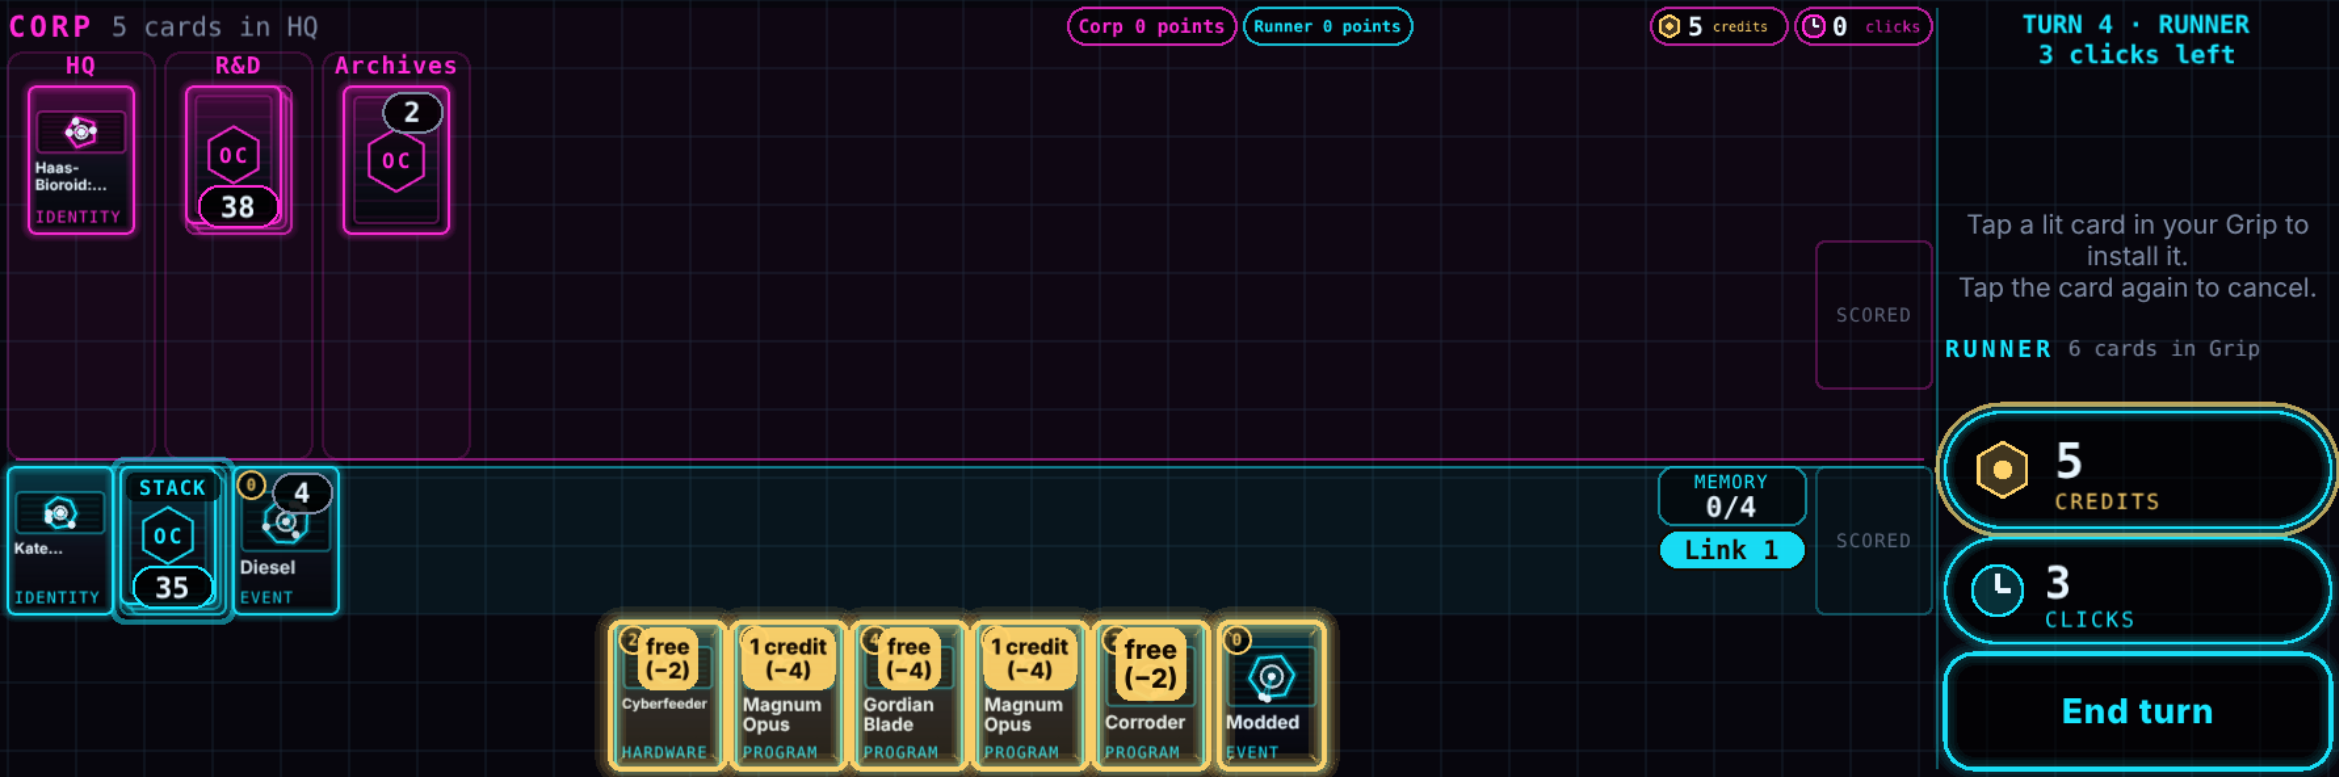
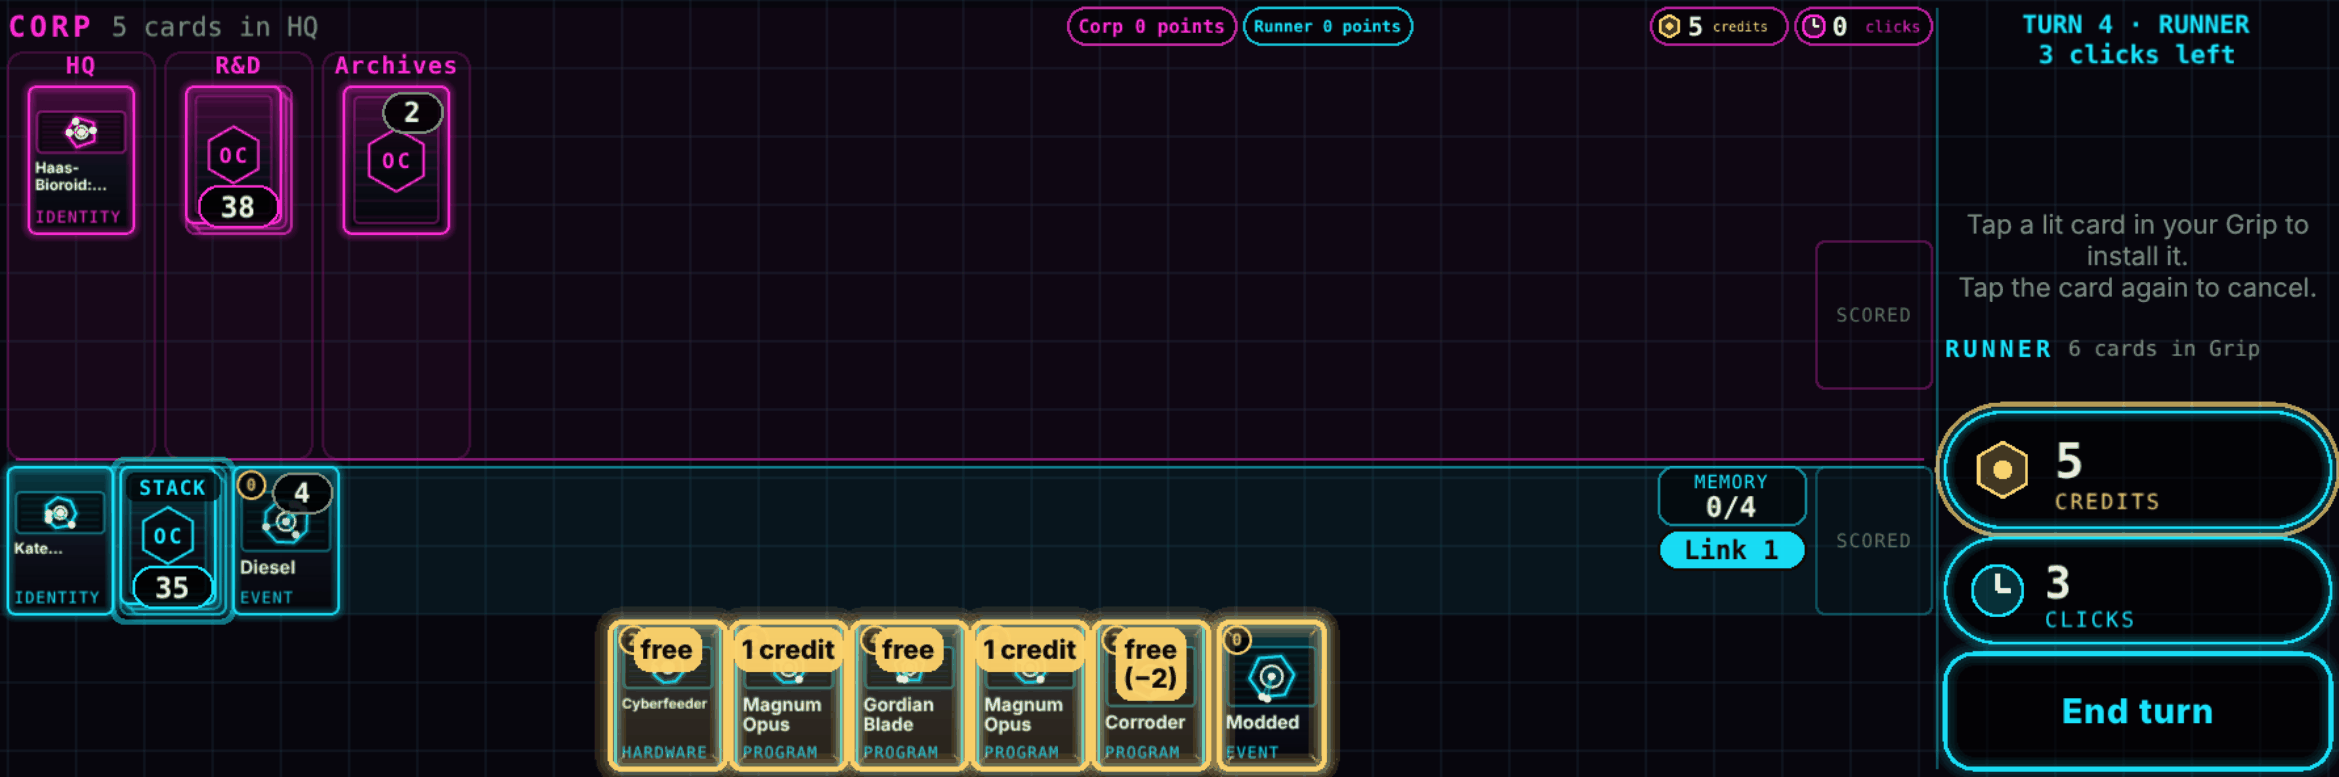
Fix QA-S12-2: Modded's Grip price text never goes under the 10 px label floor
The price pill now picks from a ladder of labels instead of shrinking below
10 px: "price (−N)" on one line, then price / (−N) on two lines, then just
the price ("free", "1 credit") when the card is too narrow or short (891x296).
A dimmed card's reason drops last (a tap still shows it). The pill may use
the target's full width so the text stays inside it. s12-runner's
expectPricesClearOfNames now uses the 10 px label floor; the documented
test.fail mark on qa-sprint12's QA-S12-2 test is removed.

Claude-Session: https://claude.ai/code/session_01H2afASKiKacAAMKpov66kr

diff --git a/apps/client/src/widgets.ts b/apps/client/src/widgets.ts
@@ -562,15 +562,29 @@ export class TargetMarker {
     let pw: number;
     let ph: number;
     if (fit) {
-      // One line if it fits the card's width at full size; else one line per part. Never word-wrapped.
+      // QA-S12-1/2: a ladder of ever shorter labels, never word-wrapped and never under the 10 px
+      // label floor: "price (−N)" on one line, then price / (−N) on two, then just the price (the
+      // discount is dropped on narrow cards; the hook's `label` keeps the full text). The first that fits the card's width and the room
+      // above its name at >= 10 px wins; it shrinks (not below 10 px) to fit.
       this.label.style.wordWrap = false;
-      this.label.scale.set(1);
-      this.label.text = note ? `${text}\n${note}` : text;
-      if (this.label.width > w - 8) this.label.text = [...fit.lines, ...(note ? [note] : [])].join('\n');
+      const base = this.label.style.fontSize as number;
+      const minPx = Math.min(base, 10);
+      const extra = note ? [note] : [];
+      const rungs = [[text, ...extra], [...fit.lines, ...extra], [fit.lines[0] ?? text, ...extra]];
+      // Last resort for a dimmed card: the reason goes (a tap still says it), the price stays.
+      if (note) rungs.push([fit.lines[0] ?? text]);
       const room = Math.max(12, fit.maxBottom - 2);
-      const k = Math.min(1, (w - 8) / Math.max(1, this.label.width), (room - 4) / Math.max(1, this.label.height));
+      let k = 1;
+      for (const [i, lines] of rungs.entries()) {
+        this.label.text = lines.join('\n');
+        this.label.scale.set(1);
+        k = Math.min(1, (w - 6) / Math.max(1, this.label.width), (room - 4) / Math.max(1, this.label.height));
+        if (base * k >= minPx - 0.01 || i === rungs.length - 1) break;
+      }
+      k = Math.max(k, minPx / base);
       this.label.scale.set(k);
-      pw = Math.min(this.label.width + 6, w - 4);
+      // The pill may use the target's full width (never more) so the text always sits inside it.
+      pw = Math.min(this.label.width + 6, w);
       ph = this.label.height + 4;
       y = -h / 2 + 2 + ph / 2;
     } else {

diff --git a/apps/client/e2e/s12-runner.spec.ts b/apps/client/e2e/s12-runner.spec.ts
@@ -53,7 +53,7 @@ async function expectPricesClearOfNames(page: Page, l: LayoutSnapshot): Promise<
     const what = `price "${t.label}" on ${names[t.index!]!.text}`;
     expect(t.pill.width * t.pill.height, `${what}: drawn`).toBeGreaterThan(0);
     expect(inside(t.pill, t.box), `${what}: inside its target`).toBe(true);
-    expect(t.pillFontPx, `${what}: readable`).toBeGreaterThanOrEqual(8);
+    expect(t.pillFontPx, `${what}: readable (10 px label floor)`).toBeGreaterThanOrEqual(10);
     for (const [i, n] of names.entries()) expect(overlaps(t.pill, n), `${what} clear of the name of Grip card ${i} (${n.text})`).toBe(false);
   }
 }

diff --git a/apps/client/e2e/qa-sprint12.spec.ts b/apps/client/e2e/qa-sprint12.spec.ts
@@ -364,7 +364,6 @@ for (const seed of [203, 206, 208]) {
   });
 }
 test('QA-S12-2 seed 203: Modded price text >= 10 px (the project floor for labels)', async ({ page }) => {
-  test.fail(test.info().project.name === 'phone-short', 'QA-S12-2: at 891x296 the two-line price pills shrink to ~8.3 px');
   const { grip, names } = await gripPrices(page, 203);
   for (const t of grip) expect(t.pillFontPx, `"${t.label}" on ${names[t.index!]!.text}: ${t.pillFontPx.toFixed(2)} px`).toBeGreaterThanOrEqual(PRICE_FLOOR_PX);
 });
